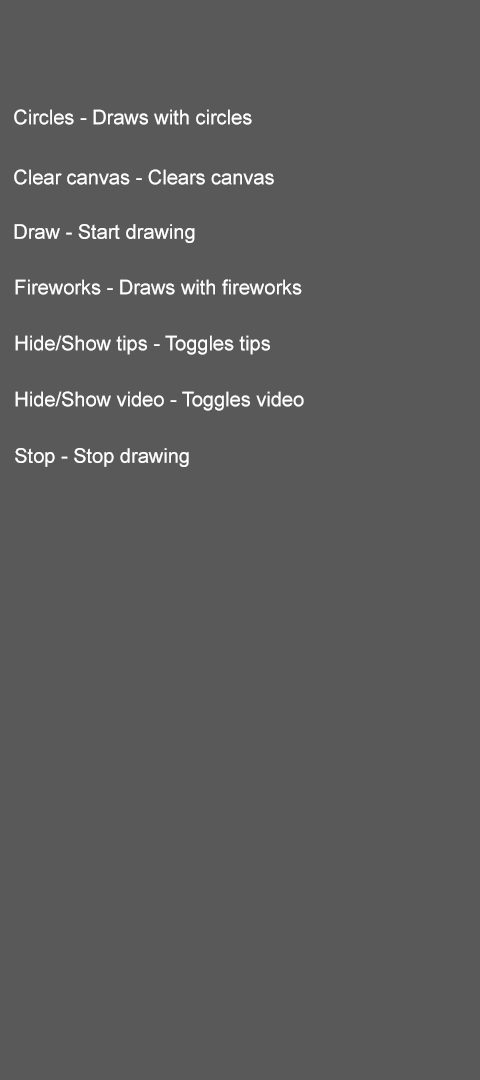
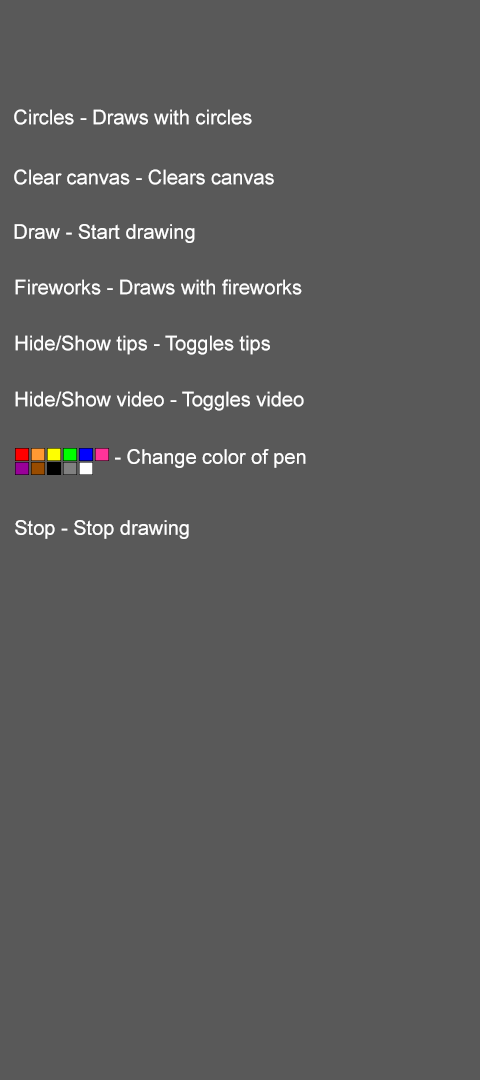
Add files via upload

Changed region(s): [[0.0312, 0.3972, 0.4062, 0.5194], [0.4375, 0.3972, 0.625, 0.4278], [0.25, 0.4583, 0.4062, 0.5194]]

diff --git a/index.html b/index.html
@@ -63,7 +63,10 @@
         let leftWristX, leftWristY;
         let rightWristX, rightWristY;
         let fireworks = [];
-        let fw = 1
+        let fw = 1;
+        let r;
+        let g;
+        let b;
 
         function setup() {
             canvas = createCanvas(683, 483);
@@ -73,6 +76,9 @@
             //video.hide();
 
             noLoop();
+            r = 0;
+            g = 0;
+            b = 0;
 
             leftWristX = width/2;
             leftWristY = height/2;
@@ -91,19 +97,54 @@
             function gotSpeech() {
               if (SpeechRec.resultValue) {
                     var mostrecentword = SpeechRec.resultString
+                //Begin/stop drawing
 		            if(mostrecentword.indexOf("draw")!==-1) {loop();}
 		            else if(mostrecentword.indexOf("stop")!==-1) {noLoop();}
+
+                //Clear canvas
                 else if(mostrecentword.indexOf("clear canvas")!==-1) {clear();}
+
+                //Toggle video
                 else if(mostrecentword.indexOf("show video")!==-1) {video.show();}
                 else if(mostrecentword.indexOf("hide video")!==-1) {video.hide();}
+
+                //Types of pens
                 else if(mostrecentword.indexOf("circles")!==-1) {fw = 1}
                 else if(mostrecentword.indexOf("fireworks")!==-1) {fw = -1;}
+
+                //Tips
                 else if(mostrecentword.indexOf("hide tips")!==-1) {var tips = document.getElementById("tips");
                                                                    tips.style.display = "none";}
                 else if(mostrecentword.indexOf("show tips")!==-1) {var tips = document.getElementById("tips");
                                                                    tips.style.display = "contents";}
                 else if(mostrecentword.indexOf("save")!==-1) {var save = document.getElementById("MAIN");
                                                                   save.save('art.png');}
+                //Colors lower case
+                else if(mostrecentword.indexOf("red")!==-1) {r = 255, g = 0, b = 0;}
+                else if(mostrecentword.indexOf("green")!==-1) {r = 0, g = 255, b = 0;}
+                else if(mostrecentword.indexOf("blue")!==-1) {r = 0, g = 0, b = 255;}
+                else if(mostrecentword.indexOf("black")!==-1) {r = 0, g = 0, b = 0;}
+                else if(mostrecentword.indexOf("white")!==-1) {r = 255, g = 255, b = 255;}
+                else if(mostrecentword.indexOf("yellow")!==-1) {r = 255, g = 255, b = 0;}
+                else if(mostrecentword.indexOf("pink")!==-1) {r = 255, g = 51, b = 153;}
+                else if(mostrecentword.indexOf("grey")!==-1) {r = 128, g = 128, b = 128;}
+                else if(mostrecentword.indexOf("orange")!==-1) {r = 255, g = 153, b = 51;}
+                else if(mostrecentword.indexOf("brown")!==-1) {r = 153, g = 76, b = 0;}
+                else if(mostrecentword.indexOf("purple")!==-1) {r = 153, g = 0, b = 153;}
+
+                //Colors capital
+                else if(mostrecentword.indexOf("Red")!==-1) {r = 255, g = 0, b = 0;}
+                else if(mostrecentword.indexOf("Green")!==-1) {r = 0, g = 255, b = 0;}
+                else if(mostrecentword.indexOf("Blue")!==-1) {r = 0, g = 0, b = 255;}
+                else if(mostrecentword.indexOf("Black")!==-1) {r = 0, g = 0, b = 0;}
+                else if(mostrecentword.indexOf("White")!==-1) {r = 255, g = 255, b = 255;}
+                else if(mostrecentword.indexOf("Yellow")!==-1) {r = 255, g = 255, b = 0;}
+                else if(mostrecentword.indexOf("Pink")!==-1) {r = 255, g = 51, b = 153;}
+                else if(mostrecentword.indexOf("Grey")!==-1) {r = 128, g = 128, b = 128;}
+                else if(mostrecentword.indexOf("Orange")!==-1) {r = 255, g = 153, b = 51;}
+                else if(mostrecentword.indexOf("Brown")!==-1) {r = 153, g = 76, b = 0;}
+                else if(mostrecentword.indexOf("Purple")!==-1) {r = 153, g = 0, b = 153;}
+
 		            console.log(mostrecentword);
                 }
                 console.log(SpeechRec);
@@ -121,7 +162,7 @@
             else if (poses.length > 0 && fw === 1) {
               drawleftCircle(poses[0].pose);
               drawrightCircle(poses[0].pose);
-            };
+            }
 
             for (let i = 0; i < fireworks.length; i++) {
                  fireworks[i].update();
@@ -141,7 +182,6 @@
     this.color = color(random(255), random(255), random(255));
     this.exploded = false;
     this.particles = [];
-    this.lifespan = 255;
   }
   
   update() {
@@ -149,7 +189,6 @@
       this.x += this.vx;
       this.y += this.vy;
       this.vy += this.gravity;
-      this.lifespan -=2;
       
       // Stops firework at max height
       if (this.vy >= 0) {
@@ -171,6 +210,7 @@
   }
 }
 
+        //Draw with fireworks
         function drawleftWrist(pose) {
 
             leftWristX += (pose.leftWrist.x - leftWristX) * 0.3;
@@ -187,13 +227,14 @@
             fireworks.push(new Firework(rightWristX, rightWristY));
         }
 
+        //Draw with circles
         function drawleftCircle(pose) {
 
             leftWristX += (pose.leftWrist.x - leftWristX) * 0.3;
             leftWristY += (pose.leftWrist.y - leftWristY) * 0.3;
 
             noStroke();
-            fill(255, 0, 0);
+            fill(r, g, b);
             ellipse(leftWristX, leftWristY, 8);
         }
 
@@ -203,10 +244,10 @@
             rightWristY += (pose.rightWrist.y - rightWristY) * 0.3;
 
             noStroke();
-            fill(255, 0, 0);
+            fill(r, g, b);
             ellipse(rightWristX, rightWristY, 8);
         }
-
+      
         function modelReady() {
             select('#status').html('');
         }
